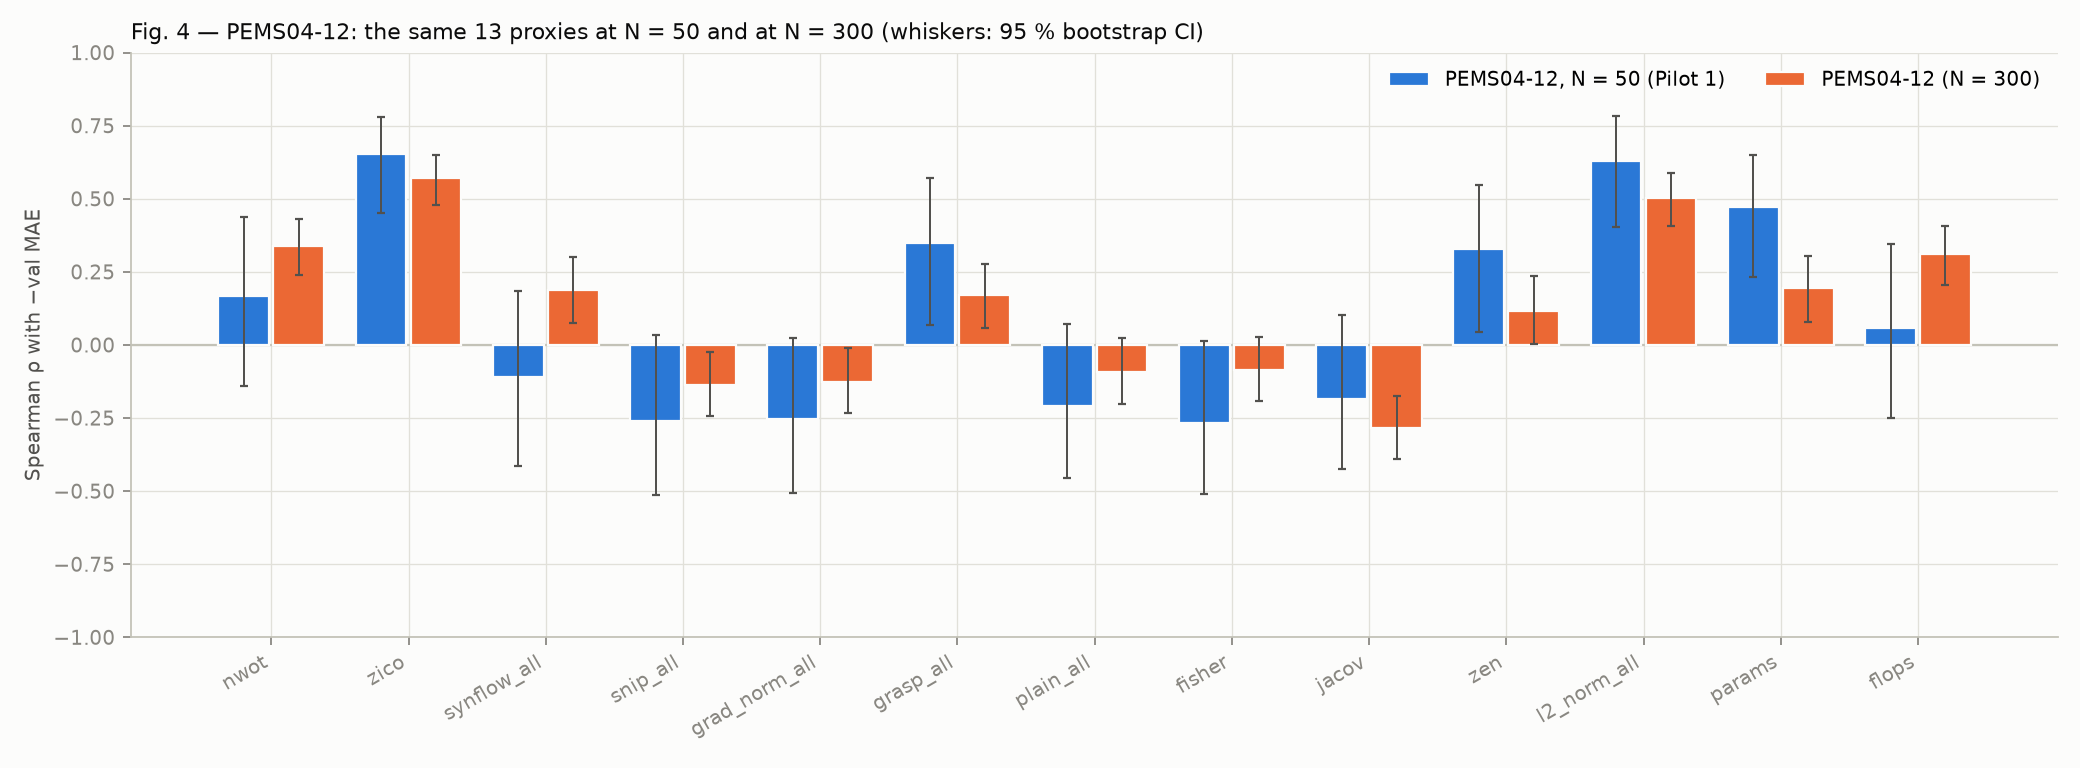
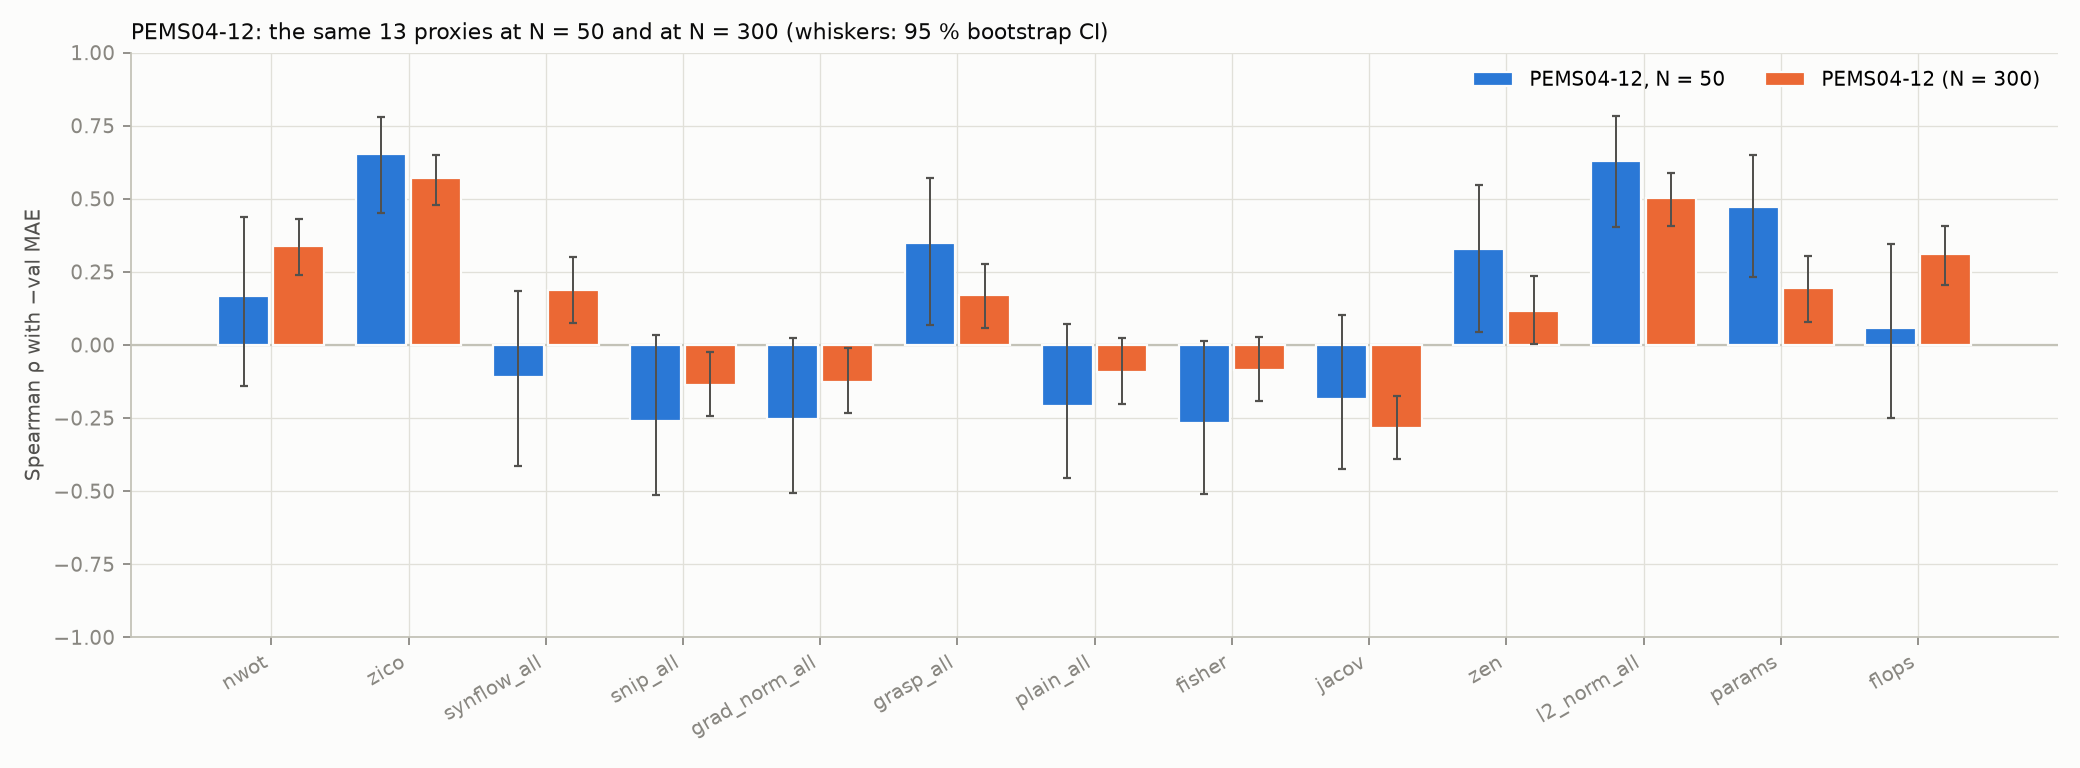
figures: titles without figure numbers, regenerated from the tables

Changed region(s): [[0.0625, 0.0312, 0.5938, 0.0625], [0.6562, 0.0938, 0.8438, 0.125]]

diff --git a/pilot/plots.py b/pilot/plots.py
@@ -85,7 +85,7 @@ def fig1(df, out, label="PEMS04-12"):
     for ax in axes[len(PROXIES):]:
         ax.axis("off")
     axes[len(PROXIES)].legend(handles=legend_handles(), loc="center left", fontsize=9, title="architecture group", title_fontsize=9)
-    fig.suptitle(f"Fig. 1 — Zero-cost proxies vs. 20-epoch val MAE on {label}, N = {len(df)} random DARTS-TS(+graph) architectures. "
+    fig.suptitle(f"Zero-cost proxies vs. 20-epoch val MAE on {label}, N = {len(df)} random DARTS-TS(+graph) architectures. "
                  "ρ = Spearman with −val MAE (positive = useful), 95% bootstrap CI.", fontsize=10, x=0.01, ha="left", color=INK)
     fig.tight_layout(rect=(0, 0, 1, 0.96))
     fig.savefig(out / "proxy_vs_mae_grid.png", dpi=160)
@@ -112,7 +112,7 @@ def fig2(df, out):
     ax.set_ylabel("Spearman ρ with −val MAE")
     ax.set_ylim(-1, 1)
     ax.legend(loc="upper left", fontsize=9)
-    ax.set_title("Fig. 2 — Spearman per proxy by architecture group (whiskers: 95% bootstrap CI)", loc="left", fontsize=10)
+    ax.set_title("Spearman per proxy by architecture group (whiskers: 95% bootstrap CI)", loc="left", fontsize=10)
     fig.tight_layout()
     fig.savefig(out / "spearman_by_family.png", dpi=160)
     plt.close(fig)
@@ -133,7 +133,7 @@ def fig3(df, out, base="nwot", name="spatial_vs_naswot.png"):
     axes[1].set_title(f"S_spatial({base}) = |score(A) − mean score(π(A))|\nρ on the {len(sens)} uses-A archs = {rho_s:+.2f}  [{lo_s:+.2f}, {hi_s:+.2f}]", loc="left", fontsize=9)
     axes[1].set_xlabel(f"S_spatial({base}), symlog (controls sit at exactly 0)")
     fig.legend(handles=legend_handles(), loc="lower center", fontsize=8, ncol=6, bbox_to_anchor=(0.5, 0.0))
-    fig.suptitle(f"Fig. 3 — Experiment B with base {base}: the proxy itself (left) and its adjacency sensitivity (right) vs. val MAE", fontsize=10, x=0.01, ha="left")
+    fig.suptitle(f"Adjacency sensitivity with base {base}: the proxy itself (left) and its adjacency sensitivity (right) vs. val MAE", fontsize=10, x=0.01, ha="left")
     fig.tight_layout(rect=(0, 0.07, 1, 0.94))
     fig.savefig(out / name, dpi=160)
     plt.close(fig)
